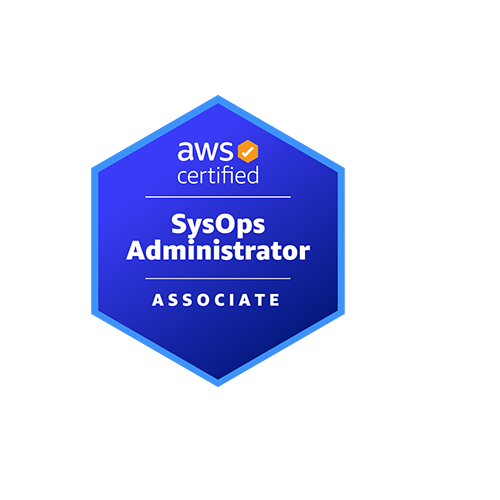
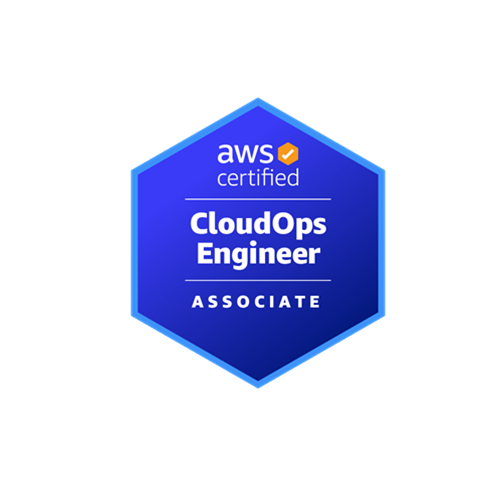
更新 SysOps 證照為 CloudOps

Changed region(s): [[0.18, 0.18, 0.78, 0.78]]

diff --git a/src/certifications.js b/src/certifications.js
@@ -2,7 +2,7 @@ export const CERTIFICATIONS = [
   { id: 'aws-clf', provider: 'AWS', name: 'AWS Certified Cloud Practitioner', exams: ['CLF-C02'], badge: 'cert-badges/clf.png' },
   { id: 'aws-saa', provider: 'AWS', name: 'AWS Certified Solutions Architect – Associate', exams: ['SAA-C03'], badge: 'cert-badges/saa.png' },
   { id: 'aws-scs', provider: 'AWS', name: 'AWS Certified Security – Specialty', exams: ['SCS-C02', 'SCS-C03', 'SCS-C03 補充'], badge: 'cert-badges/scs.png' },
-  { id: 'aws-soa', provider: 'AWS', name: 'AWS Certified SysOps Administrator – Associate', exams: ['SOA-C02', 'SOA-C03'], badge: 'cert-badges/soa.png' },
+  { id: 'aws-soa', provider: 'AWS', name: 'AWS Certified CloudOps Engineer – Associate', exams: ['SOA-C02', 'SOA-C03'], badge: 'cert-badges/soa.png' },
   { id: 'aws-mla', provider: 'AWS', name: 'AWS Certified Machine Learning Engineer – Associate', exams: ['MLA-C01'], badge: 'cert-badges/mla.png' },
   { id: 'aws-aip', provider: 'AWS', name: 'AWS Certified Generative AI Developer – Professional', exams: ['AIP-C01'], badge: 'cert-badges/aip.png' },
   { id: 'gcp-pca', provider: 'GCP', name: 'Google Cloud Professional Cloud Architect', exams: ['PCA'], badge: 'gcp-logo.png' },
